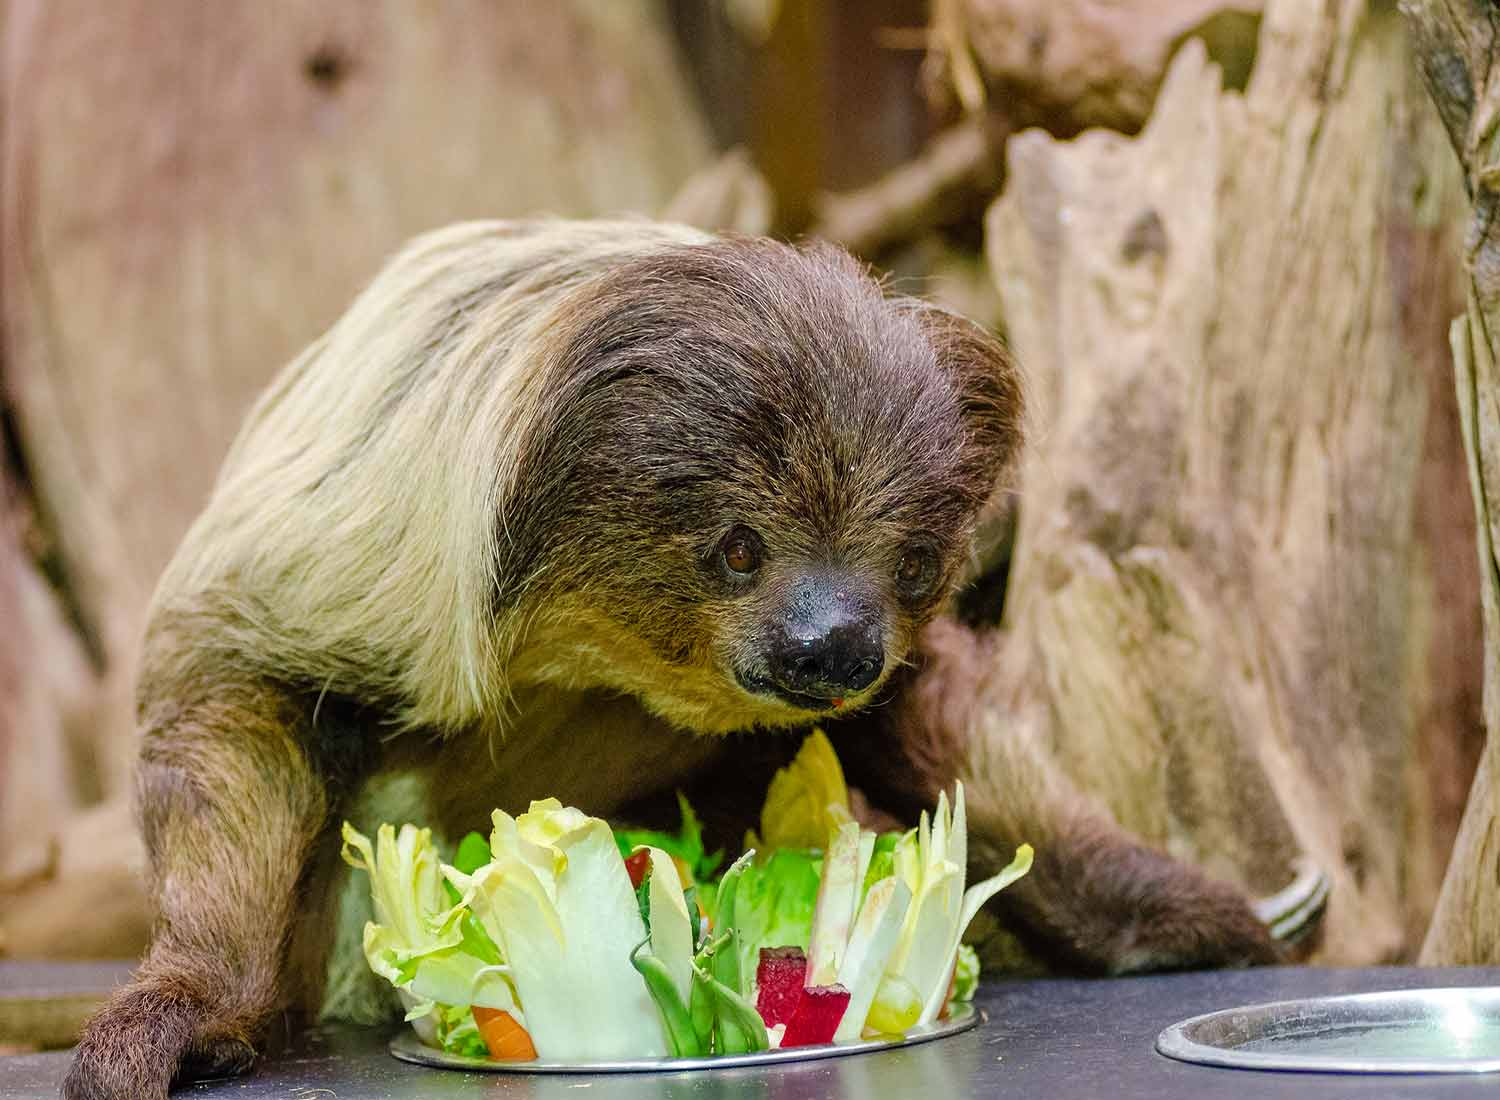
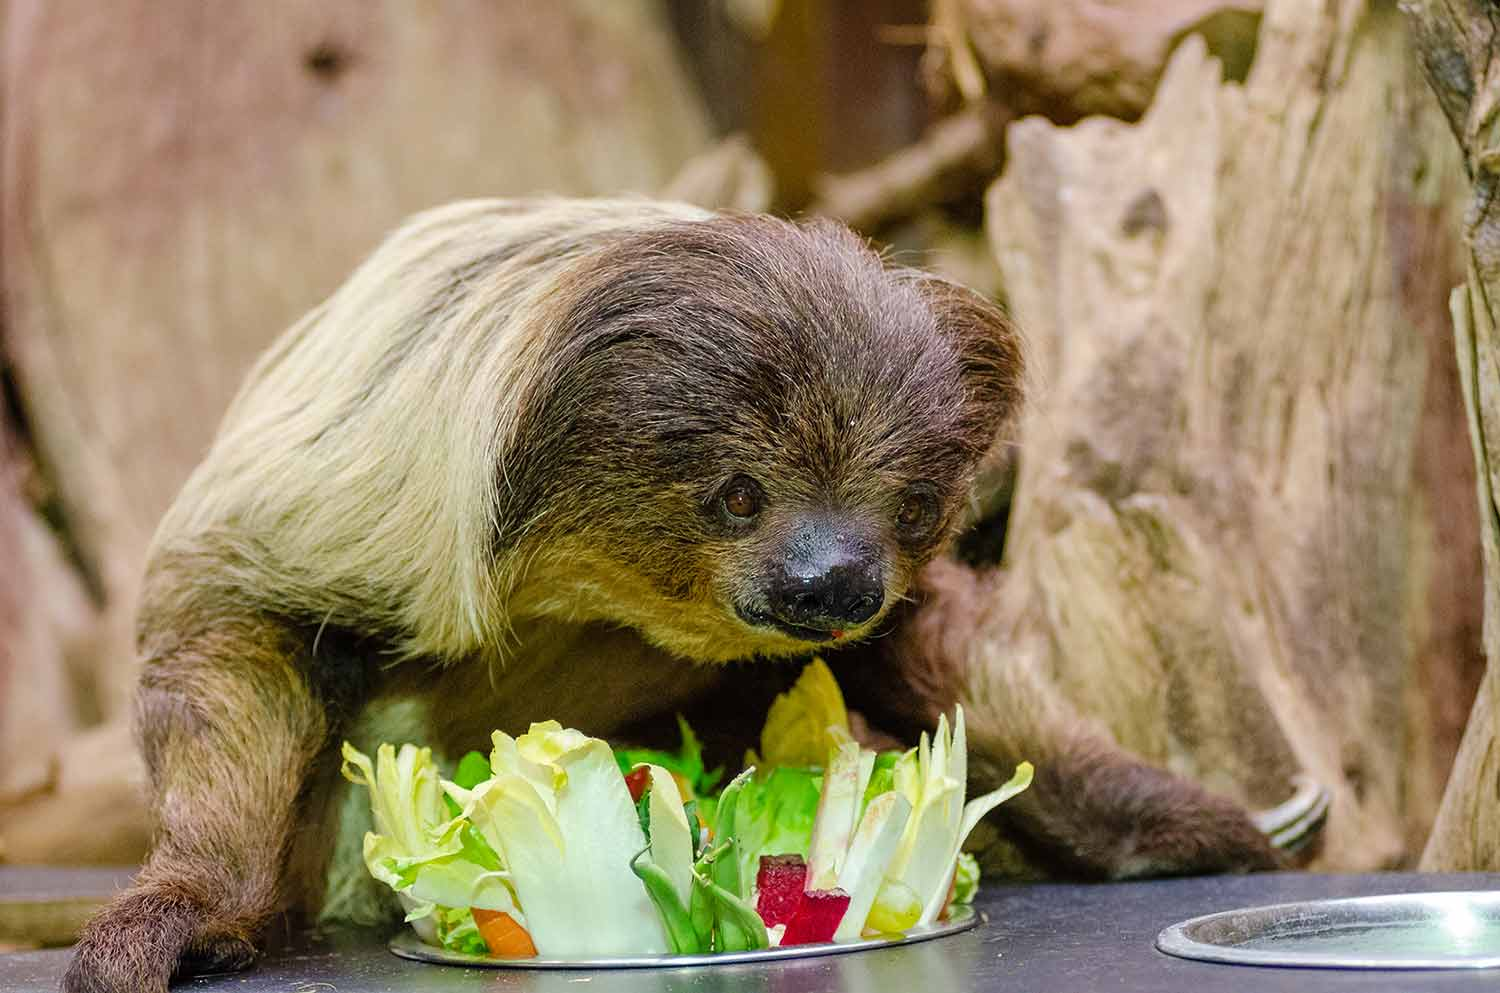
tried to match screenshots

diff --git a/index.html b/index.html
@@ -12,17 +12,17 @@
   <main>
     <div class="borders">
       <div class="masthead relative">
-        <h1 class="absolute pin-tl">The Mighty Sloth</h1>
+        <h1 class="absolute pin-tl zetta">The Mighty Sloth</h1>
       </div>
     </div>
     <p>Sloths are mammals classified in the families <i>Megalonychidae</i> (two-toed sloths) and <i>Bradypodidae</i> (three-toed sloths), including six extant species. They are named after the capital sin of sloth because they seem slow and lazy at first glance; however, their usual idleness is due to metabolic adaptations for conserving energy.</p>
     <p>Aside from their surprising speed during emergency flights from predators, other notable traits of sloths include their strong body and their ability to host symbiotic algae on their furs.</p>
     <figure>
       <img src="images/sloth-2.jpg" alt="">
-      <figcaption>Three-toed sloth featured with an ant-eater, a platypus & armadillos.</figcaption>
+      <figcaption class="milli">Three-toed sloth featured with an ant-eater, a platypus & armadillos.</figcaption>
     </figure>
-    <p>They are classified in the order Pilosa because they are related to anteaters, which sport a similar set of specialized claws. Extinct sloth species include many megafaunal ground sloths, some of which attained the size of elephants, as well as a few species of marine sloths. Extant sloths are medium-sized arboreal (tree-dwelling) residents of the jungles of Central and South America.</p>
-    <p>Sloths make good habitats for other organisms, and a single sloth may be home to moths, beetles, cockroaches, fungi, ciliates, and algae.</p>
+    <p class="last">They are classified in the order Pilosa because they are related to anteaters, which sport a similar set of specialized claws. Extinct sloth species include many megafaunal ground sloths, some of which attained the size of elephants, as well as a few species of marine sloths. Extant sloths are medium-sized arboreal (tree-dwelling) residents of the jungles of Central and South America.</p>
+    <p class="snd-last">Sloths make good habitats for other organisms, and a single sloth may be home to moths, beetles, cockroaches, fungi, ciliates, and algae.</p>
     <img class="img-3" src="images/sloth-3.jpg" alt="">
   </main>
   <footer>

diff --git a/css/main.css b/css/main.css
@@ -28,7 +28,7 @@ figure {
 }
 
 figure img {
-  max-height: 220px;
+  max-height: 210px;
 }
 
 footer a {
@@ -50,6 +50,15 @@ figure figcaption {
 p {
   padding-top: .75em;
   padding-bottom: .25em;
+}
+
+.last {
+  padding: 0;
+}
+
+.snd-last {
+  padding-top: .75em;
+  padding-bottom: .5em;
 }
 
 main {
